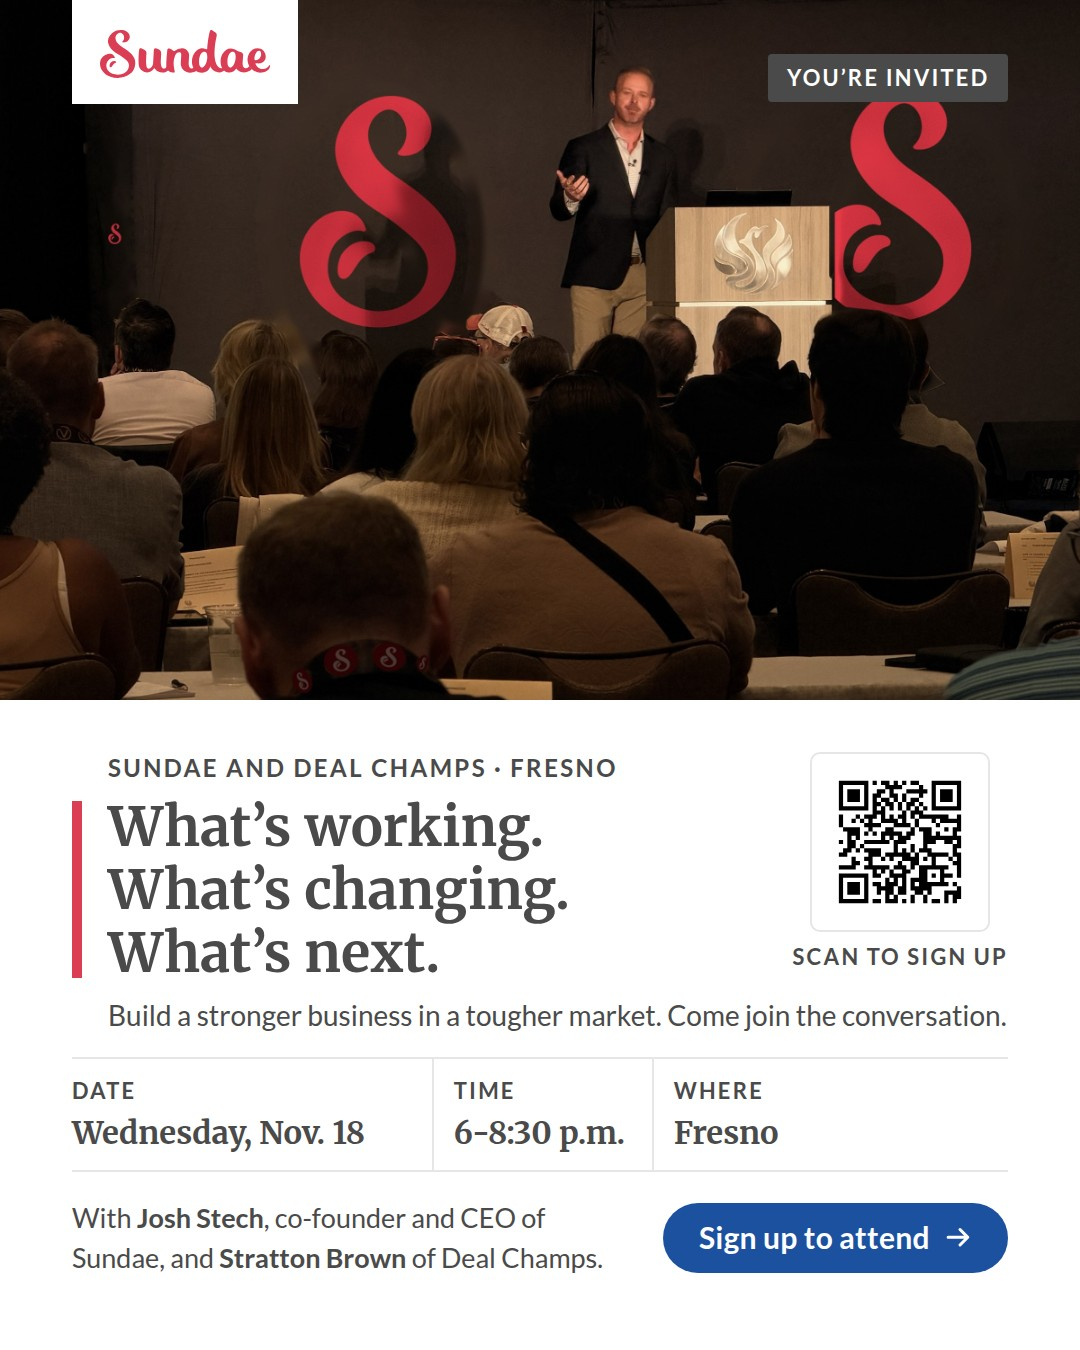
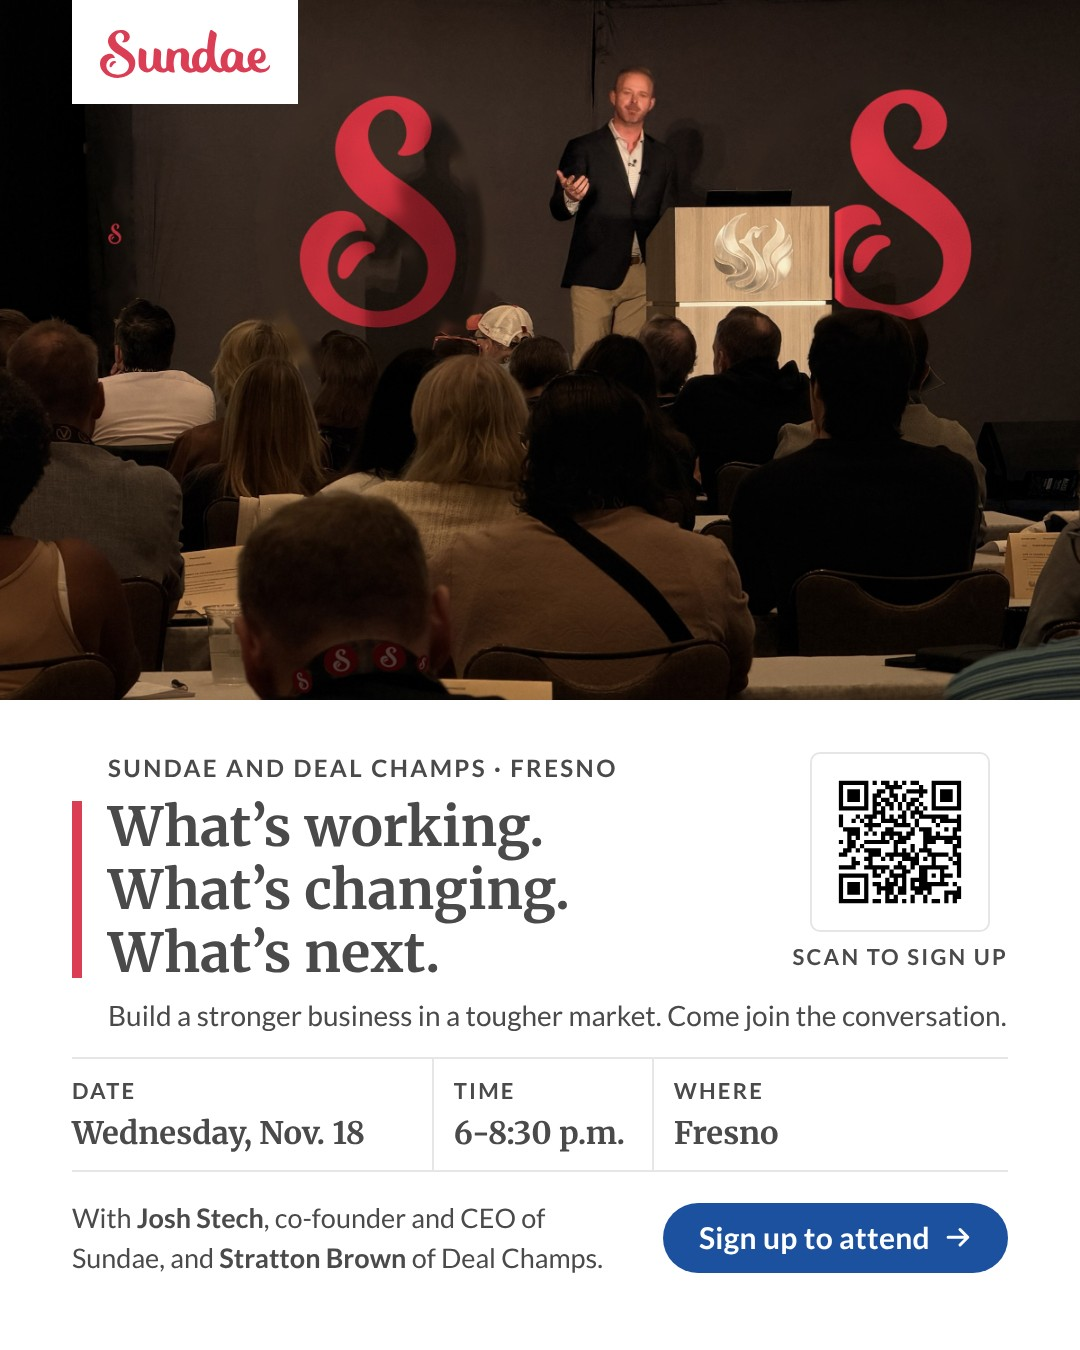
Fresno: LinkedIn post (image 11 + caption C21); image 10 without the You're invited tag (team request that failed)
Claude-Session: https://claude.ai/code/session_01VsEjTzoJJLDyiHnbyeST63

diff --git a/engine/creatives/events/fresno-2026-11-18/images/11.html b/engine/creatives/events/fresno-2026-11-18/images/11.html
@@ -1,0 +1,13 @@
+<!doctype html><html><head><meta charset="utf-8"><link rel="stylesheet" href="/kit/base.css"><style>
+html,body{width:1200px;height:1200px} .canvas{width:1200px;height:1200px} </style></head>
+<body><div class="canvas">
+<div class="photo" style="left:0;top:0;width:1200px;height:640px;background-image:url(/kit/assets/josh-stage-sundae-backdrop.jpg);background-position:50% 20%"></div>
+<div class="wm-tab" style="left:72px;top:0;padding:30px 28px 26px"><img class="wm" src="/kit/assets/sundae-wordmark-red.svg" alt="Sundae" style="width:170px"></div>
+<div style="position:absolute;left:72px;right:72px;top:690px">
+  <div class="eyebrow" style="font-size:24px;margin-left:36px">Sundae and Deal Champs · Private Dinner &amp; Dialogue</div>
+  <h1 class="h accent" style="font-size:58px;line-height:1.16;margin-top:12px;--bar:10px;--gap:36px">Build a stronger business<br>in a tougher market.</h1>
+  <p class="sub" style="font-size:29px;margin:16px 0 0 36px;line-height:1.4">An evening of candid conversation with <b>Josh Stech</b>, co-founder and CEO of Sundae, and <b>Stratton Brown</b> of Deal Champs.</p>
+  <div style="display:flex;align-items:center;justify-content:space-between;gap:30px;margin-top:34px;border-top:2px solid var(--gray);padding-top:30px">
+    <div><div class="h" style="font-size:34px">Wednesday, Nov. 18 · 6-8:30 p.m.</div><div class="body" style="font-size:26px;margin-top:6px">Fresno · Seats are limited · Location shared when you sign up</div></div>
+    <span class="btn" style="font-size:30px">Sign up to attend<svg class="arr" viewBox="0 0 24 24" aria-hidden="true"><path d="M3.5 12h16.5M13.5 5.5 20 12l-6.5 6.5" fill="none" stroke="currentColor" stroke-width="2.6" stroke-linecap="round" stroke-linejoin="round"/></svg></span></div>
+</div></div></body></html>

diff --git a/engine/creatives/events/fresno-2026-11-18/images/10.html b/engine/creatives/events/fresno-2026-11-18/images/10.html
@@ -3,7 +3,6 @@ html,body{width:1080px;height:1350px} .canvas{width:1080px;height:1350px} </styl
 <body><div class="canvas">
 <div class="photo" style="left:0;top:0;width:1080px;height:700px;background-image:url(/kit/assets/josh-stage-sundae-backdrop.jpg);background-position:50% 18%"></div>
 <div class="wm-tab" style="left:72px;top:0;padding:30px 28px 26px"><img class="wm" src="/kit/assets/sundae-wordmark-red.svg" alt="Sundae" style="width:170px"></div>
-<div style="position:absolute;right:72px;top:54px"><span class="tag" style="font-size:22px">You’re invited</span></div>
 <div style="position:absolute;left:72px;right:72px;top:752px">
   <div class="eyebrow" style="font-size:24px;margin-left:36px">Sundae and Deal Champs · Fresno</div>
   <h1 class="h accent" style="font-size:54px;line-height:1.16;margin-top:12px;--bar:10px;--gap:36px">What’s working.<br>What’s changing.<br>What’s next.</h1>
